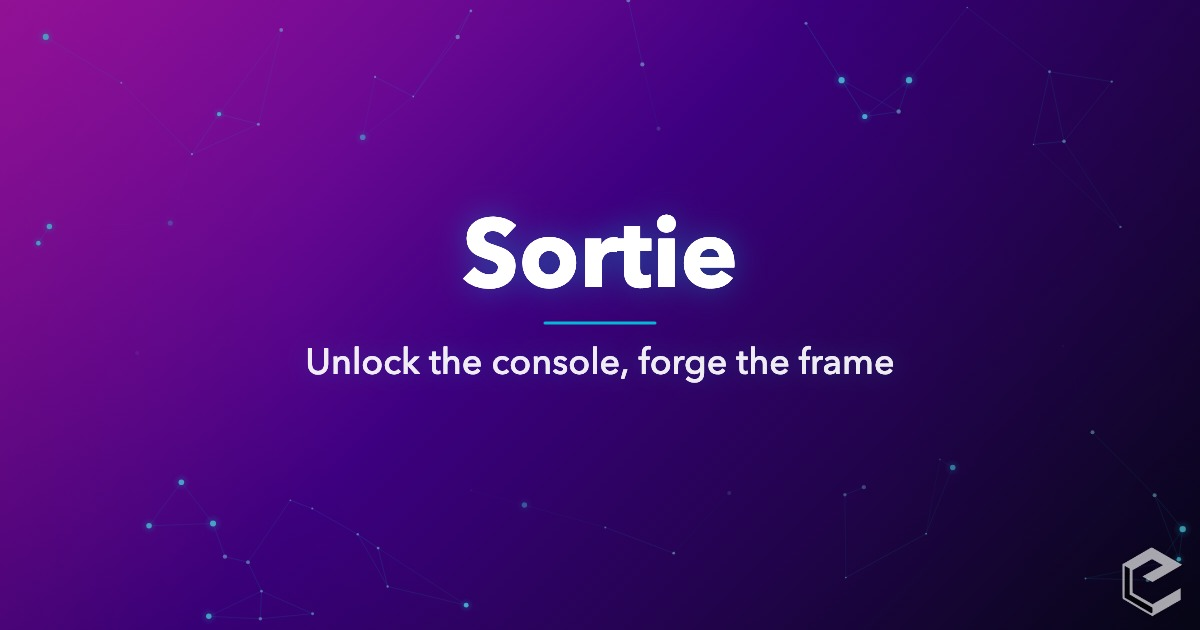
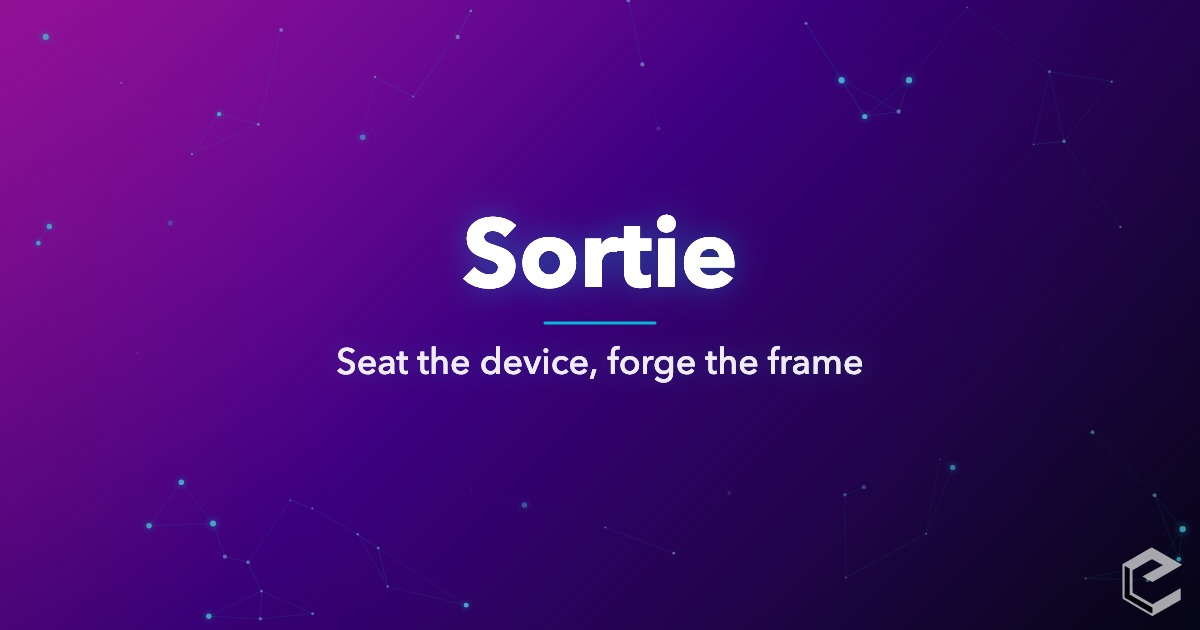
01

Changed region(s): [[0.2467, 0.5429, 0.74, 0.6032]]

diff --git a/js/state.js b/js/state.js
@@ -2,7 +2,10 @@ export const W = 1200;
 export const H = 630;
 
 export const sites = [
-  { id: 'sortie', title: 'Sortie', subtitle: 'Unlock the console, forge the frame', accent: '#06b6d4', domain: 'sortie.neorgon.com' },
+  { id: 'boardwright', title: 'Boardwright', subtitle: 'Board blueprints an AI can build from', accent: '#65a30d', domain: 'boardwright.neorgon.com' },
+  { id: 'neokeys', title: 'NeoKeys', subtitle: 'Shortcuts you can list and remap', accent: '#84cc16', domain: 'neokeys.neorgon.com' },
+  { id: 'overworld', title: 'Overworld', subtitle: 'Your Habitica day, and the history it deletes', accent: '#b45309', domain: 'overworld.neorgon.com' },
+  { id: 'sortie', title: 'Sortie', subtitle: 'Seat the device, forge the frame', accent: '#06b6d4', domain: 'sortie.neorgon.com' },
   { id: 'rewind', title: 'Rewind', subtitle: 'Site design history, replayable', accent: '#9333ea', domain: 'rewind.neorgon.com' },
   { id: 'neorgon',          title: 'Neorgon',              subtitle: 'Developer Tools Hub',                accent: '#818cf8', domain: 'neorgon.com' },
   { id: 'skill-roadmap',    title: 'Skill Roadmap',        subtitle: 'Visual Learning Path Builder',       accent: '#a78bfa', domain: 'skillmap.neorgon.com' },
